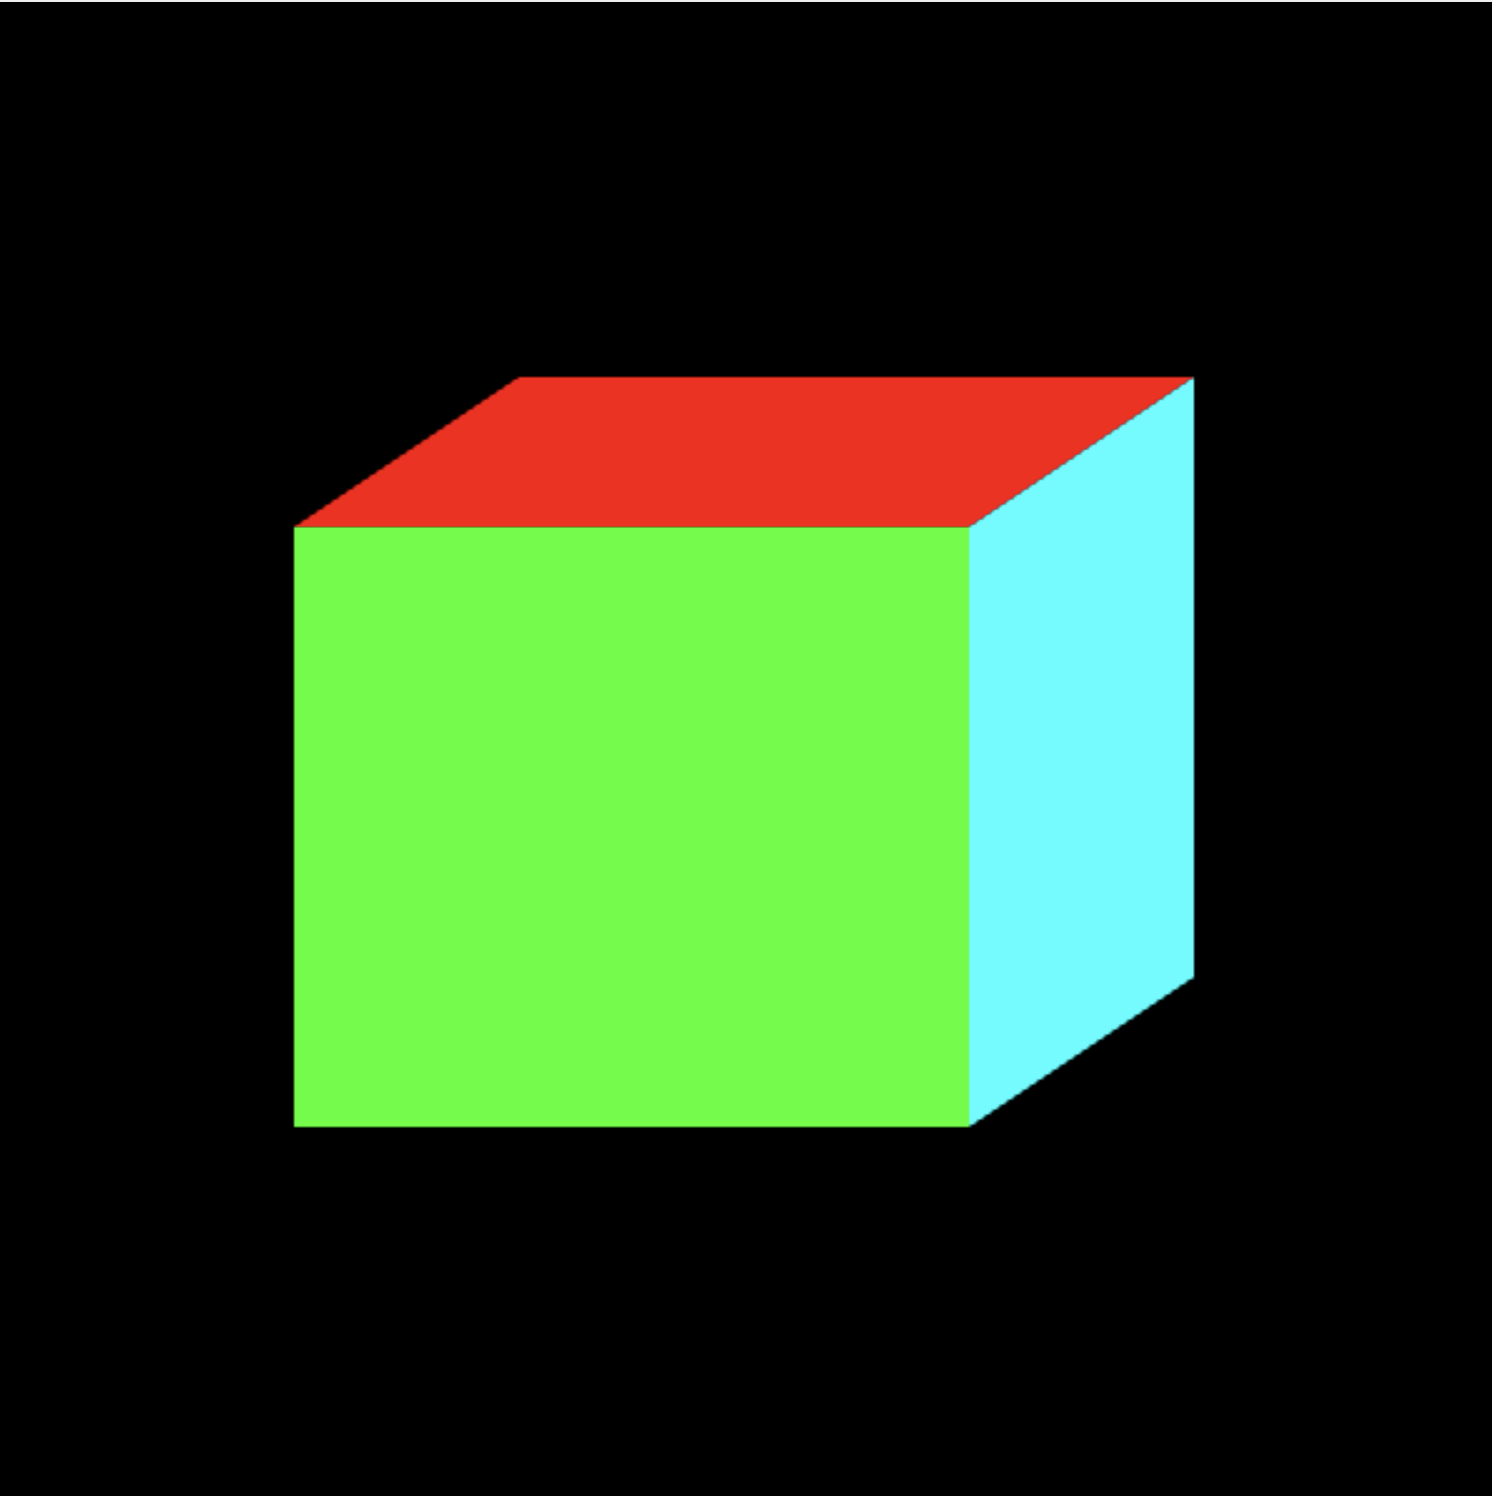
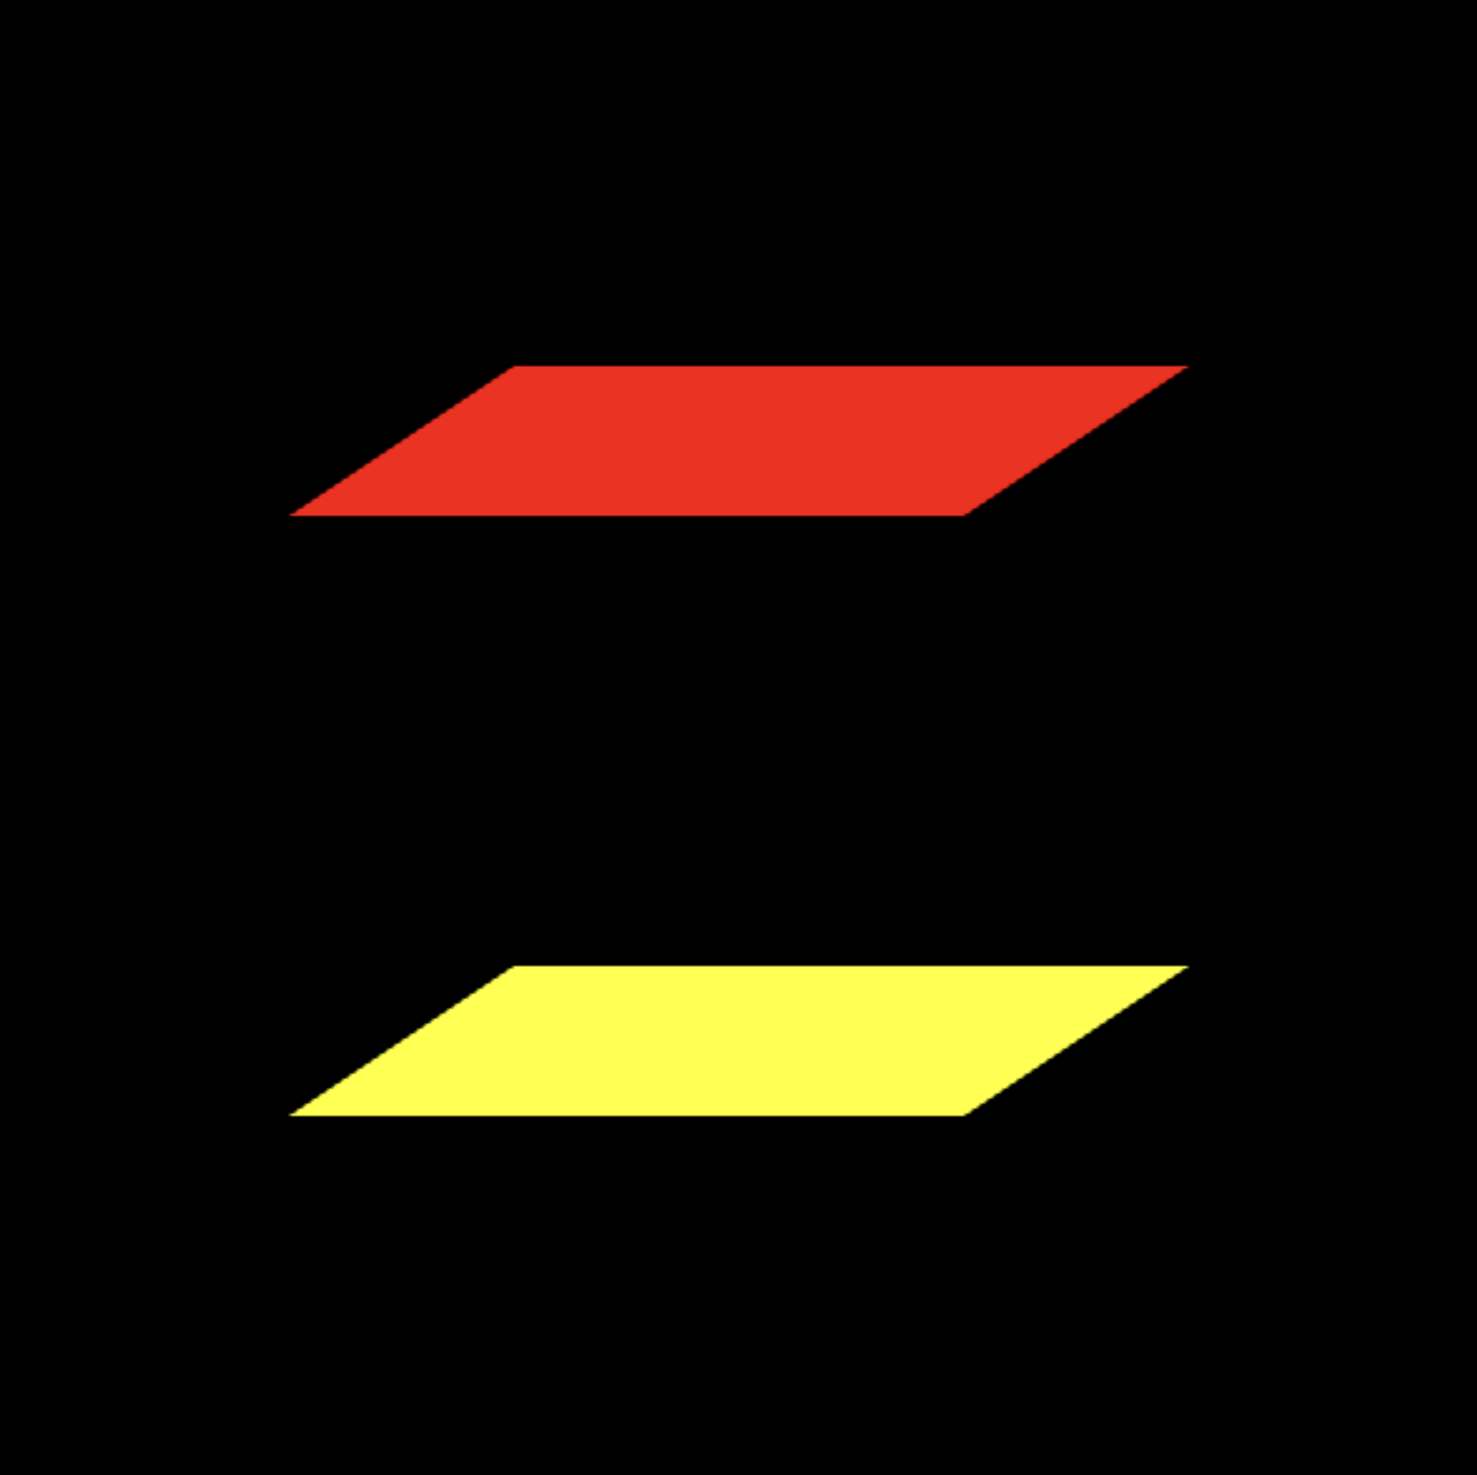
modified:   Cube Triangle in WebGL.html 	modified:   README.md 	modified:   image-1.png 	new file:   image-2.png 	new file:   image-3.png 	new file:   image-4.png 	modified:   image.png

Changed region(s): [[0.1869, 0.2495, 0.8097, 0.7797], [0.2492, 0.2807, 0.3114, 0.3119]]

diff --git a/Cube Triangle in WebGL.html b/Cube Triangle in WebGL.html
@@ -80,11 +80,11 @@ function draw() {
     /* Draw the six faces of a cube, with different colors. */
     
     drawPrimitive( gl.TRIANGLE_FAN, [0,1,0,1], [ -0.6,-0.5,-0.5, -0.6,0.3,-0.5, 0.3,0.3,-0.5, 0.3,-0.5,-0.5 ]); //green -front
-    drawPrimitive( gl.TRIANGLE_FAN, [1,0,1,1], [ -0.6,-0.5,0.5, -0.3,-0.3,0.5, -0.3,0.5,0.5, -0.6,0.3,0.5 ]); //pink -left
+    //drawPrimitive( gl.TRIANGLE_FAN, [1,0,1,1], [ -0.6,-0.5,0.5, -0.3,-0.3,0.5, -0.3,0.5,0.5, -0.6,0.3,0.5 ]); //pink -left
     drawPrimitive( gl.TRIANGLE_FAN, [0,0,1,1], [ 0.6,-0.3,0.5, -0.3,-0.3,0.5, -0.3,0.5,0.5, 0.6,0.5,0.5 ]); //blue -back
-    drawPrimitive( gl.TRIANGLE_FAN, [1,1,0,1], [ -0.6,-0.5,0.5, -0.3,-0.3,-0.5, 0.6,-0.3,-0.2, 0.3,-0.5,-0.5 ]); //yellow -bottom
-    drawPrimitive( gl.TRIANGLE_FAN, [0,1,1,1], [ 0.3,-0.5,-0.5, 0.3,0.3,-0.5, 0.6,0.5,-0.5, 0.6,-0.3,-0.5 ]); //light blue -right
-    drawPrimitive( gl.TRIANGLE_FAN, [1,0,0,1], [ -0.6,0.3,-0.5, -0.3,0.5,-0.5, 0.6,0.5,-0.5, 0.3,0.3,-0.5 ]); //red -top
+    //drawPrimitive( gl.TRIANGLE_FAN, [1,1,0,1], [ -0.6,-0.5,0.5, -0.3,-0.3,-0.5, 0.6,-0.3,-0.2, 0.3,-0.5,-0.5 ]); //yellow -bottom
+    //drawPrimitive( gl.TRIANGLE_FAN, [0,1,1,1], [ 0.3,-0.5,-0.5, 0.3,0.3,-0.5, 0.6,0.5,-0.5, 0.6,-0.3,-0.5 ]); //light blue -right
+    //drawPrimitive( gl.TRIANGLE_FAN, [1,0,0,1], [ -0.6,0.3,-0.5, -0.3,0.5,-0.5, 0.6,0.5,-0.5, 0.3,0.3,-0.5 ]); //red -top
 }
 
 

diff --git a/README.md b/README.md
@@ -10,6 +10,18 @@
 
 2. Cube 3D
 
-Full view :
+- Full view :
 
-![full](image-1.png)
+![full](image-2.png)
+
+- Bottom (Yellow) and Top (Red) :
+
+![bnt](image-1.png)
+
+- Right (Light Blue) and Left (Pink) :
+
+![rnl](image-3.png)
+
+- Front (Green) and Back (Blue) :
+
+![fnb](image-4.png)
